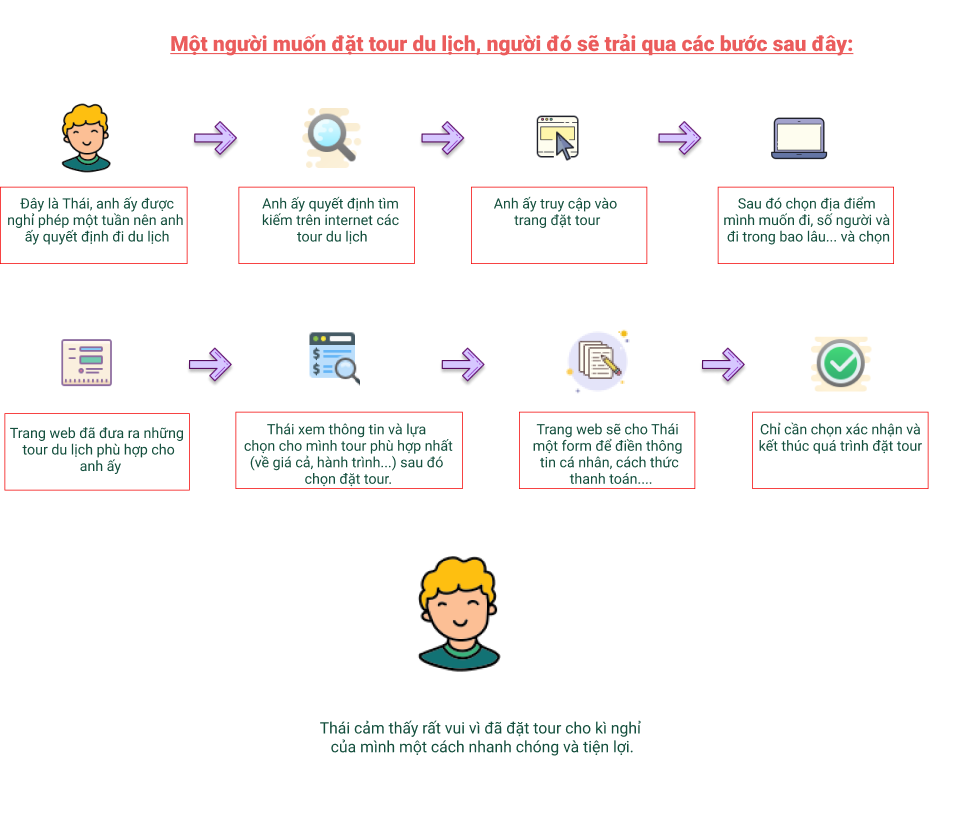
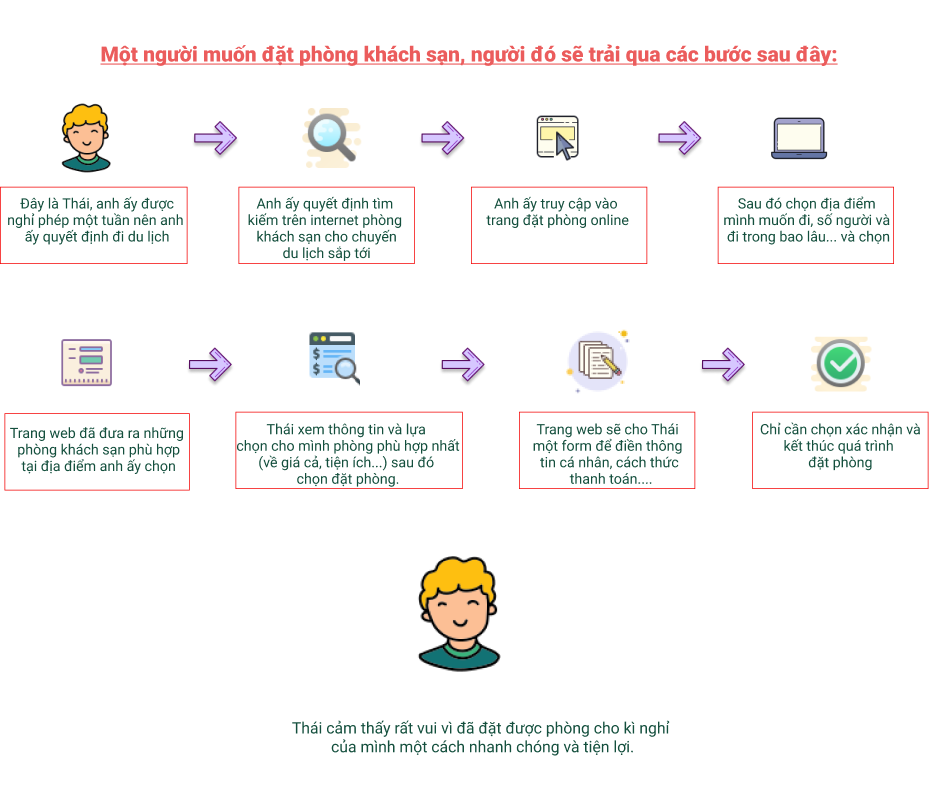
uup

diff --git a/lab2.html b/lab2.html
@@ -10,7 +10,7 @@
     <link rel="stylesheet" href="https://maxcdn.bootstrapcdn.com/bootstrap/3.4.0/css/bootstrap.min.css">
     <script src="https://ajax.googleapis.com/ajax/libs/jquery/3.4.1/jquery.min.js"></script>
     <script src="https://maxcdn.bootstrapcdn.com/bootstrap/3.4.0/js/bootstrap.min.js"></script>
-  
+
 
 
     <link href="https://fonts.googleapis.com/css?family=Poppins:100,200,300,400,500,600,700,800,900" rel="stylesheet">
@@ -130,7 +130,8 @@
 
                     <ul class="nav nav-tabs">
                         <li class="nav-item">
-                            <a class="nav-link active" data-toggle="tab" href="#requiment1"  onclick="myFunction122()">Requiment</a>
+                            <a class="nav-link active" data-toggle="tab" href="#requiment1"
+                                onclick="myFunction122()">Requiment</a>
                         </li>
                         <li class="nav-item">
                             <a class="nav-link" data-toggle="tab" href="#userScenario">User scenario </a>
@@ -143,11 +144,11 @@
                         </li>
                     </ul>
                     <script>
-                            function myFunction122() {
-                              // location.replace("./baitap.html")
-                              location.reload(true);
-                            }
-                          </script>
+                        function myFunction122() {
+                            // location.replace("./baitap.html")
+                            location.reload(true);
+                        }
+                    </script>
                     <!-- content tab lab 1-->
                     <div class="tab-content">
                         <div id="requiment1" class="container tab-pane active"><br>
@@ -204,7 +205,7 @@
                                     </h4>
                                 </div>
                                 <div>
-                                    
+
                                     <img title="user scenario" src="./images/user scenario1.png"><br>
                                     <button
                                         style="float: left; margin-bottom: 20px; border-radius: 10px; background-color: teal">
@@ -226,8 +227,196 @@
                             <p>đây là design trong lab 2</p>
                         </div>
                         <div id="implement1" class="container tab-pane fade"><br>
+                            <!-- đây là phần nội dung implement lab 2 -->
 
-                            <p>đây là phần implement của lab 2</p>
+                            <section class="ftco-section ftco-no-pt ftco-no-pb">
+                                <div class="container-fluid px-0">
+                                    <div class="row d-flex no-gutters">
+                                        <div
+                                            class="col-md-6 order-md-last ftco-animate makereservation p-4 p-md-5 pt-5">
+                                            <div class="py-md-5">
+                                                <div>
+                                                    <h1><b>Phòng Suite (SUT)</b></h1>
+                                                </div>
+                                                <div><b>Thông tin:</b> là loại phòng cao cấp, không gian thoáng đãng,
+                                                    trong lành</div>
+                                                <div><b>Diện tích từ:</b> 60 – 120m2</div>
+                                                <div><b>Bao gồm:</b> 1 phòng khách, 1 phòng ngủ riêng biệt, cửa sổ và
+                                                    ban công để khách ngắm phong cảnh.</div>
+                                                <div><b>Tiện ích:</b> phục vụ 24/24, xe đưa đón tận nơi,ăn sáng miễn
+                                                    phí...</div><br>
+                                                <div class="row">
+
+                                                    <div class="col-md-6">
+                                                        <div class="form-group">
+                                                            <div style=" color: rgb(71, 226, 123);"> <strike>Giá gốc:
+                                                                    20,000.000 VND</strike> </div>
+                                                            <h2 style="float: left; color: teal;">Giá: 11.110.000 VND
+                                                            </h2>
+                                                        </div>
+                                                    </div>
+                                                    <div class="col-md-6">
+
+                                                        <button onclick="myFunctionbutton()"
+                                                            style="float: left; margin-bottom: 20px; border-radius: 10px; background-color: #ffa629">
+
+                                                            <a 
+                                                                style="text-align:center; font-size: 24px; color: rgb(243, 240, 240)">
+                                                                <img src="./images/tickbox.png" width="24px"
+                                                                    alt="Thêm dữ liệu" target="_blank"> Đặt phòng </a>
+                                                        </button>
+
+                                                    </div>
+                                                </div>
+
+                                            </div>
+                                        </div>
+                                        <div><br><img tile="chức năng đặt phòng" src="./images/room_4.jpg"
+                                                height="400"><br></div>
+                                    </div>
+                                </div>
+                            </section>
+                            <section class="ftco-section ftco-no-pt ftco-no-pb">
+                                <div class="container-fluid px-0">
+                                    <div class="row d-flex no-gutters">
+                                        <div
+                                            class="col-md-6 order-md-last ftco-animate makereservation p-4 p-md-5 pt-5">
+                                            <div class="py-md-5">
+                                                <div>
+                                                    <h1><b>Phòng Executive Suite</b></h1>
+                                                </div>
+                                                <div><b>Thông tin:</b> là loại phòng cao cấp, không gian thoáng đãng,
+                                                    trong lành</div>
+                                                <div><b>Diện tích từ:</b> 60 – 120m2</div>
+                                                <div><b>Bao gồm:</b> 1 phòng khách, 1 phòng ngủ riêng biệt, cửa sổ và
+                                                    ban công để khách ngắm phong cảnh.</div>
+                                                <div><b>Tiện ích:</b> phục vụ 24/24, xe đưa đón tận nơi,ăn sáng miễn
+                                                    phí...</div><br>
+                                                <div class="row">
+
+                                                    <div class="col-md-6">
+                                                        <div class="form-group">
+                                                            <div style=" color: rgb(71, 226, 123);"> <strike>Giá gốc:
+                                                                    18.145.000 VND</strike> </div>
+                                                            <h2 style="float: left; color: teal;">Giá: 15.320.000 VND
+                                                            </h2>
+                                                        </div>
+                                                    </div>
+                                                    <div class="col-md-6">
+
+                                                        <button onclick="myFunctionbutton()"
+                                                            style="float: left; margin-bottom: 20px; border-radius: 10px; background-color: #ffa629">
+
+                                                            <a 
+                                                                style="text-align:center; font-size: 24px; color: rgb(243, 240, 240)">
+                                                                <img src="./images/tickbox.png" width="24px"
+                                                                    alt="Thêm dữ liệu" target="_blank"> Đặt phòng </a>
+                                                        </button>
+
+                                                    </div>
+                                                </div>
+
+                                            </div>
+                                        </div>
+                                        <div><br><img tile="chức năng đặt phòng" src="./images/room_2.jpg"
+                                                height="400"><br></div>
+                                    </div>
+                                </div>
+                            </section>
+                            <section class="ftco-section ftco-no-pt ftco-no-pb">
+                                <div class="container-fluid px-0">
+                                    <div class="row d-flex no-gutters">
+                                        <div
+                                            class="col-md-6 order-md-last ftco-animate makereservation p-4 p-md-5 pt-5">
+                                            <div class="py-md-5">
+                                                <div>
+                                                    <h1><b>Phòng Junior Suite</b></h1>
+                                                </div>
+                                                <div><b>Thông tin:</b> là loại phòng cao cấp, không gian thoáng đãng,
+                                                    trong lành</div>
+                                                <div><b>Diện tích từ:</b> 60 – 120m2</div>
+                                                <div><b>Bao gồm:</b> 1 phòng khách, 1 phòng ngủ riêng biệt, cửa sổ và
+                                                    ban công để khách ngắm phong cảnh.</div>
+                                                <div><b>Tiện ích:</b> phục vụ 24/24, xe đưa đón tận nơi,ăn sáng miễn
+                                                    phí...</div><br>
+                                                <div class="row">
+
+                                                    <div class="col-md-6">
+                                                        <div class="form-group">
+                                                            <div style=" color: rgb(71, 226, 123);"> <strike>Giá gốc:
+                                                                    18.145.000 VND</strike> </div>
+                                                            <h2 style="float: left; color: teal;">Giá: 15.320.000 VND
+                                                            </h2>
+                                                        </div>
+                                                    </div>
+                                                    <div class="col-md-6">
+
+                                                        <button onclick="myFunctionbutton()"
+                                                            style="float: left; margin-bottom: 20px; border-radius: 10px; background-color: #ffa629">
+
+                                                            <a 
+                                                                style="text-align:center; font-size: 24px; color: rgb(243, 240, 240)">
+                                                                <img src="./images/tickbox.png" width="24px"
+                                                                    alt="Thêm dữ liệu" target="_blank"> Đặt phòng </a>
+                                                        </button>
+
+                                                    </div>
+                                                </div>
+
+                                            </div>
+                                        </div>
+                                        <div><br><img tile="chức năng đặt phòng" src="./images/room_1.jpg"
+                                                height="400"><br></div>
+                                    </div>
+                                </div>
+                            </section>
+                            <section class="ftco-section ftco-no-pt ftco-no-pb">
+                                    <div class="container-fluid px-0">
+                                        <div class="row d-flex no-gutters">
+                                            <div
+                                                class="col-md-6 order-md-last ftco-animate makereservation p-4 p-md-5 pt-5">
+                                                <div class="py-md-5">
+                                                    <div>
+                                                        <h1><b>Phòng Deluxe (DLX)</b></h1>
+                                                    </div>
+                                                    <div><b>Thông tin:</b> Phòng deluxe thường ở tầng trên cao với view đẹp (hướng ra núi, biển… )</div>
+                                                    <div><b>Diện tích từ:</b> 30 – 100m2</div>
+                                                    <div><b>Bao gồm:</b>phòng ngủ có giường lớn, cửa sổ và
+                                                        ban công để khách ngắm phong cảnh.</div>
+                                                    <div><b>Tiện ích:</b> phục vụ 24/24, xe đưa đón tận nơi,ăn sáng miễn
+                                                        phí...</div><br>
+                                                    <div class="row">
+    
+                                                        <div class="col-md-6">
+                                                            <div class="form-group">
+                                                                <div style=" color: rgb(71, 226, 123);"> <strike>Giá gốc:
+                                                                        10.145.000 VND</strike> </div>
+                                                                <h2 style="float: left; color: teal;">Giá: 7.320.000 VND
+                                                                </h2>
+                                                            </div>
+                                                        </div>
+                                                        <div class="col-md-6">
+    
+                                                            <button onclick="myFunctionbutton()"
+                                                                style="float: left; margin-bottom: 20px; border-radius: 10px; background-color: #ffa629">
+    
+                                                                <a 
+                                                                    style="text-align:center; font-size: 24px; color: rgb(243, 240, 240)">
+                                                                    <img src="./images/tickbox.png" width="24px"
+                                                                        alt="Thêm dữ liệu" target="_blank"> Đặt phòng </a>
+                                                            </button>
+    
+                                                        </div>
+                                                    </div>
+    
+                                                </div>
+                                            </div>
+                                            <div><br><img tile="chức năng đặt phòng" src="./images/room_3.jpg"
+                                                    height="400"><br></div>
+                                        </div>
+                                    </div>
+                                </section>
+                            <!-- đây là phần kết thúc implement lab 2 -->
                         </div>
                     </div>
                 </div>
@@ -312,7 +501,11 @@
         </div>
     </footer>
 
-
+    <script>
+            function myFunctionbutton() {
+              alert("Bạn đã đặt phòng thành công!");
+            }
+            </script>
     <!-- loader -->
     <div id="ftco-loader" class="show fullscreen"><svg class="circular" width="48px" height="48px">
             <circle class="path-bg" cx="24" cy="24" r="22" fill="none" stroke-width="4" stroke="#eeeeee" />
